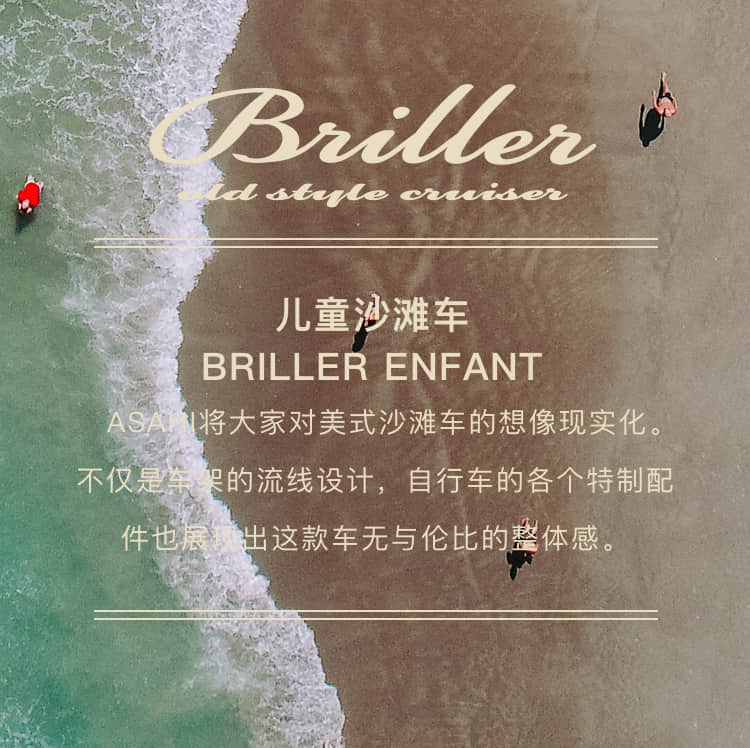
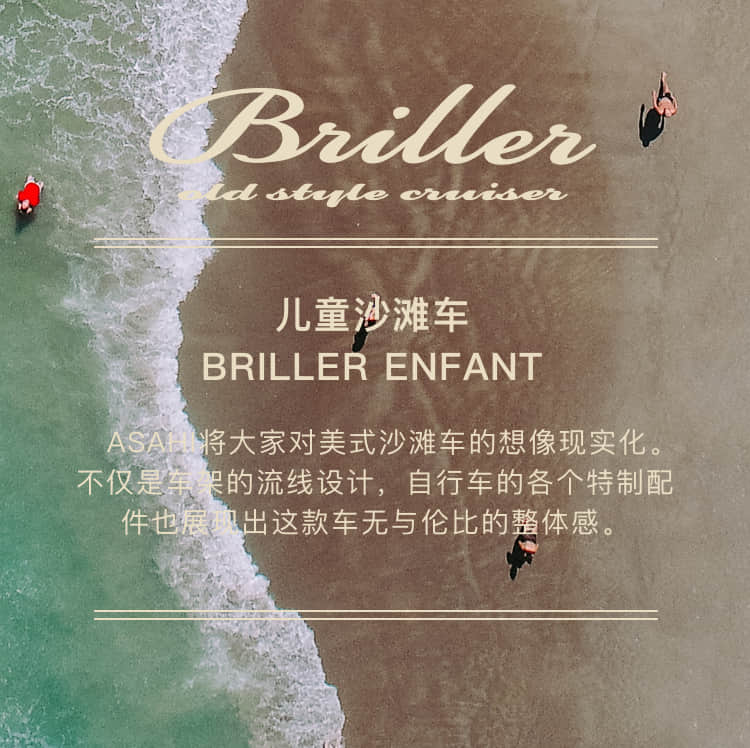
2017年10月14日13:56:51

Changed region(s): [[0.092, 0.5227, 0.8893, 0.738]]

diff --git a/css/bike.css b/css/bike.css
@@ -40,7 +40,7 @@
     font-size:14px;
     color:#6a6a6a;
     letter-spacing:1px;
-    line-height:24px;
+    line-height:29px;
     text-align: justify;
 }
 
@@ -502,6 +502,9 @@
 }
 /*手机*/
 @media screen and (max-width: 767px){
+    .detail .detail-bike h5{
+        line-height:22px;
+    }
     .modal-lg{
         width: auto;
     }
